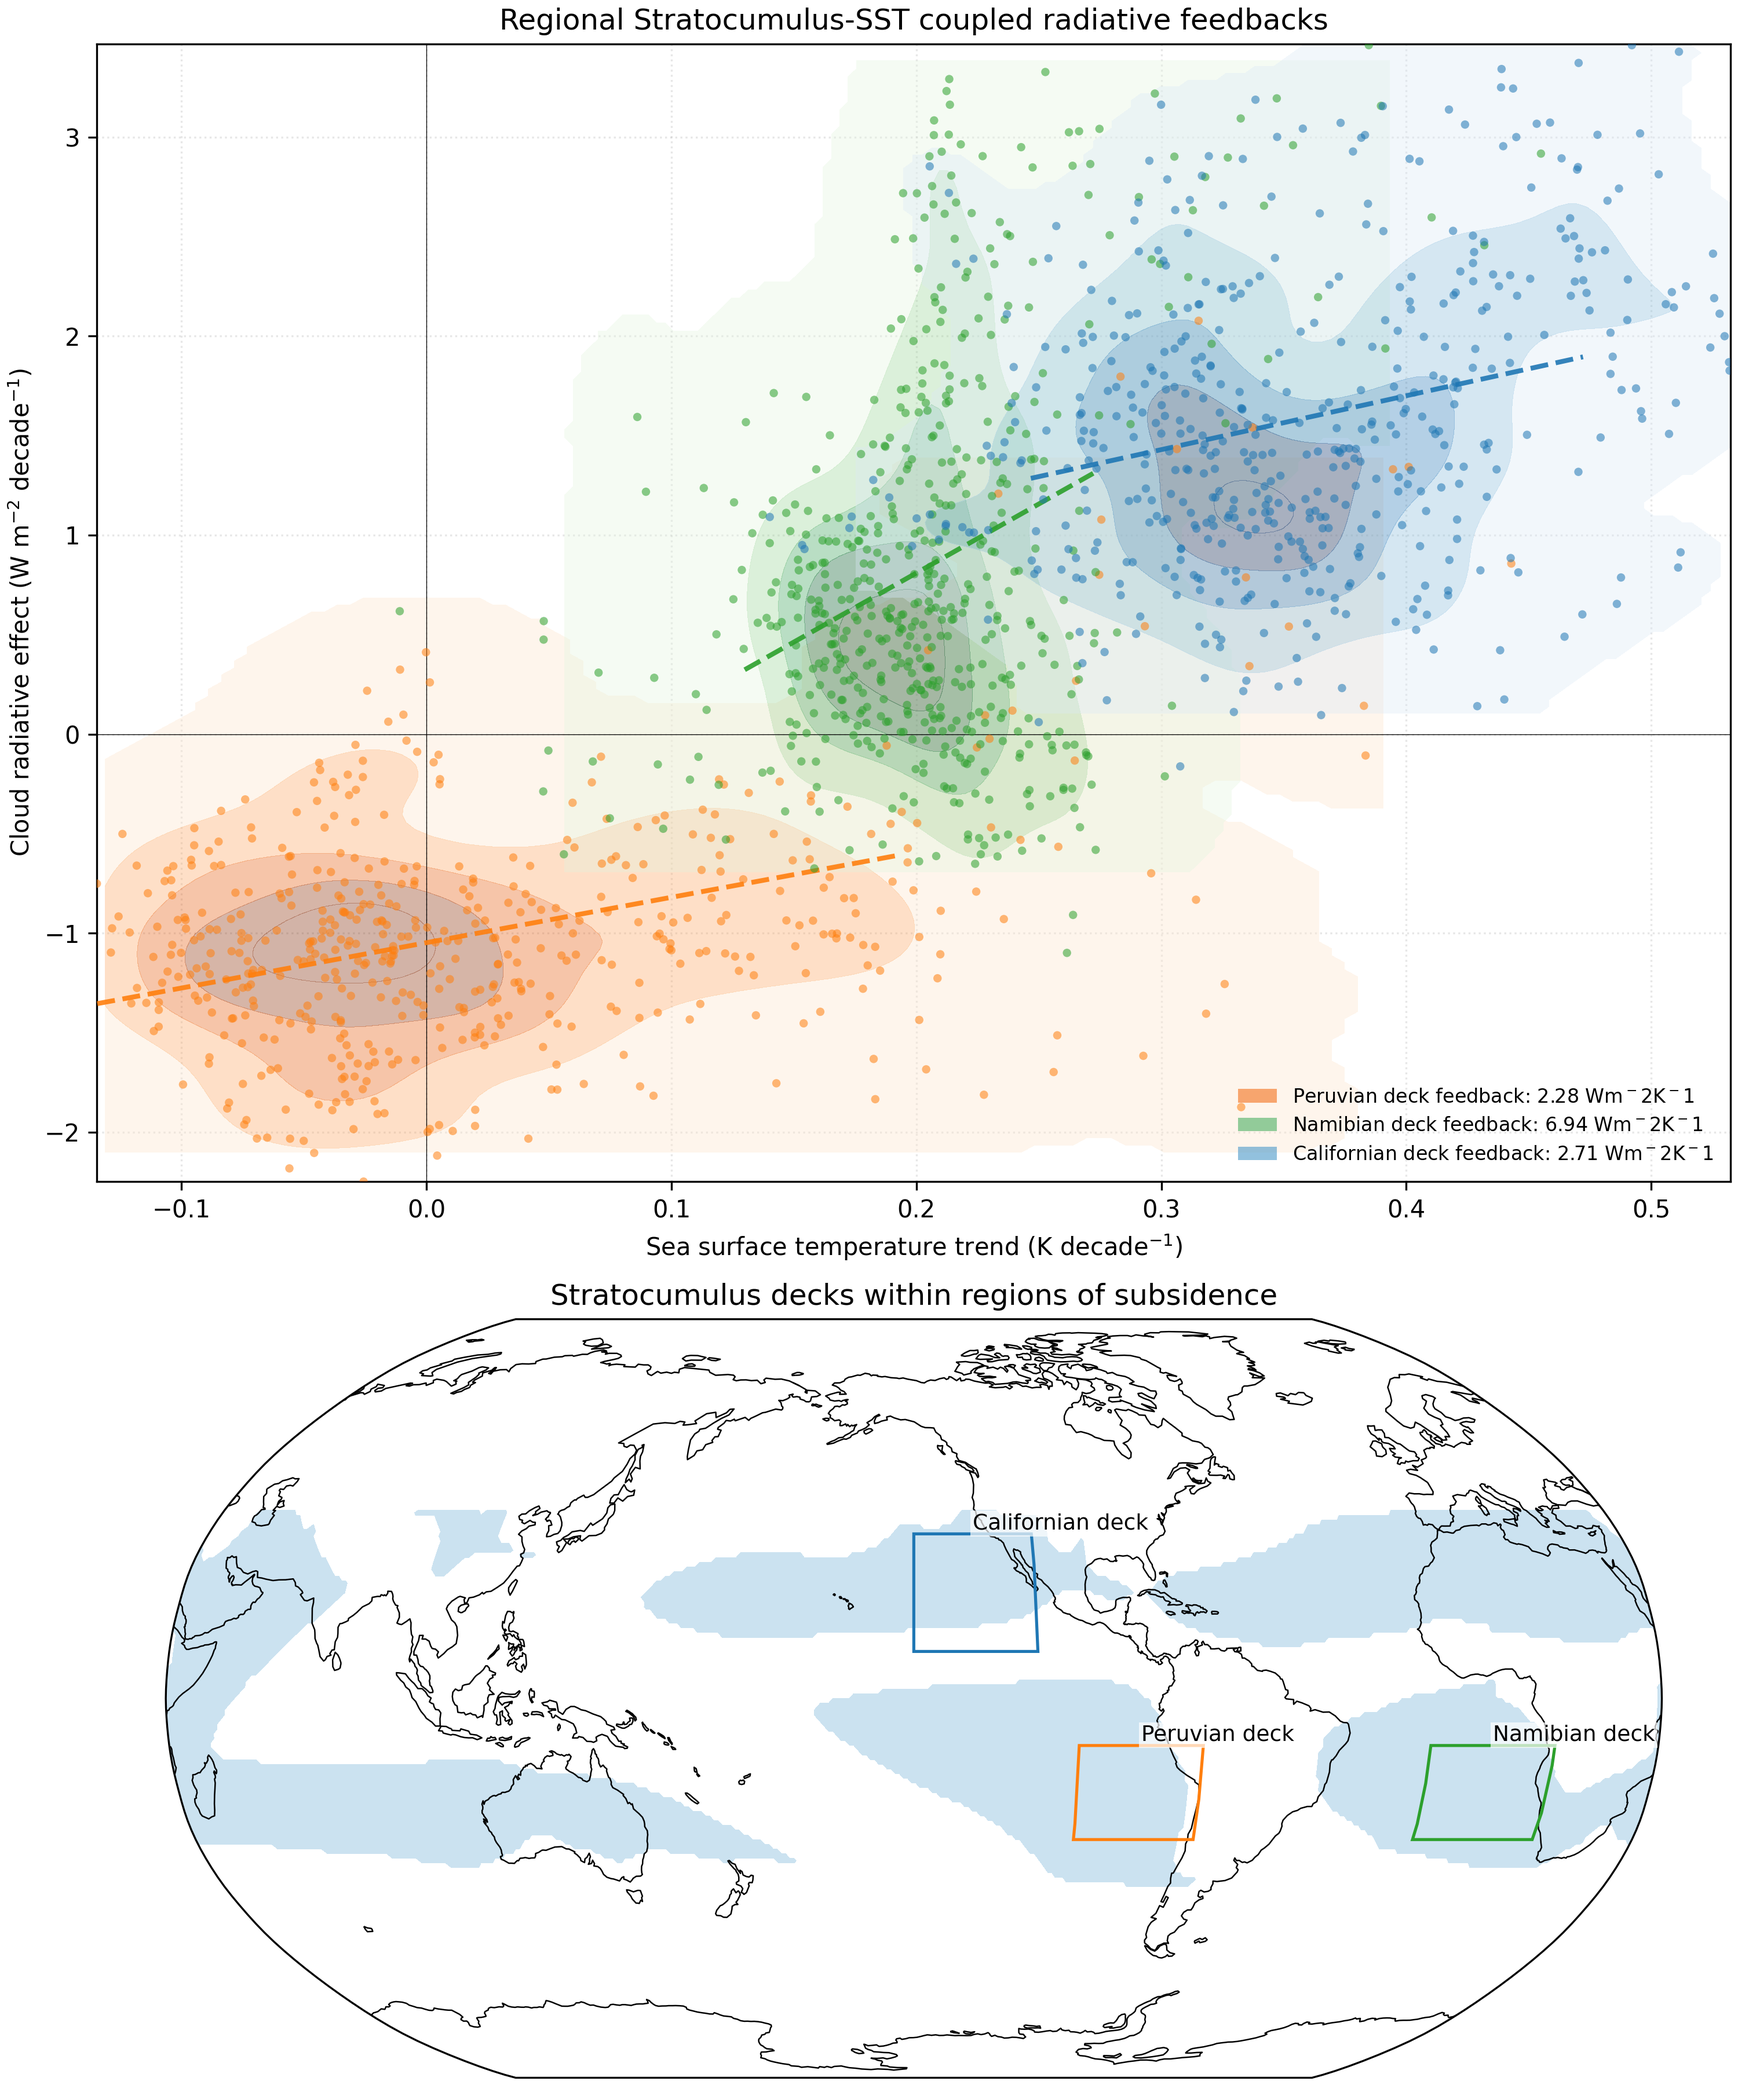
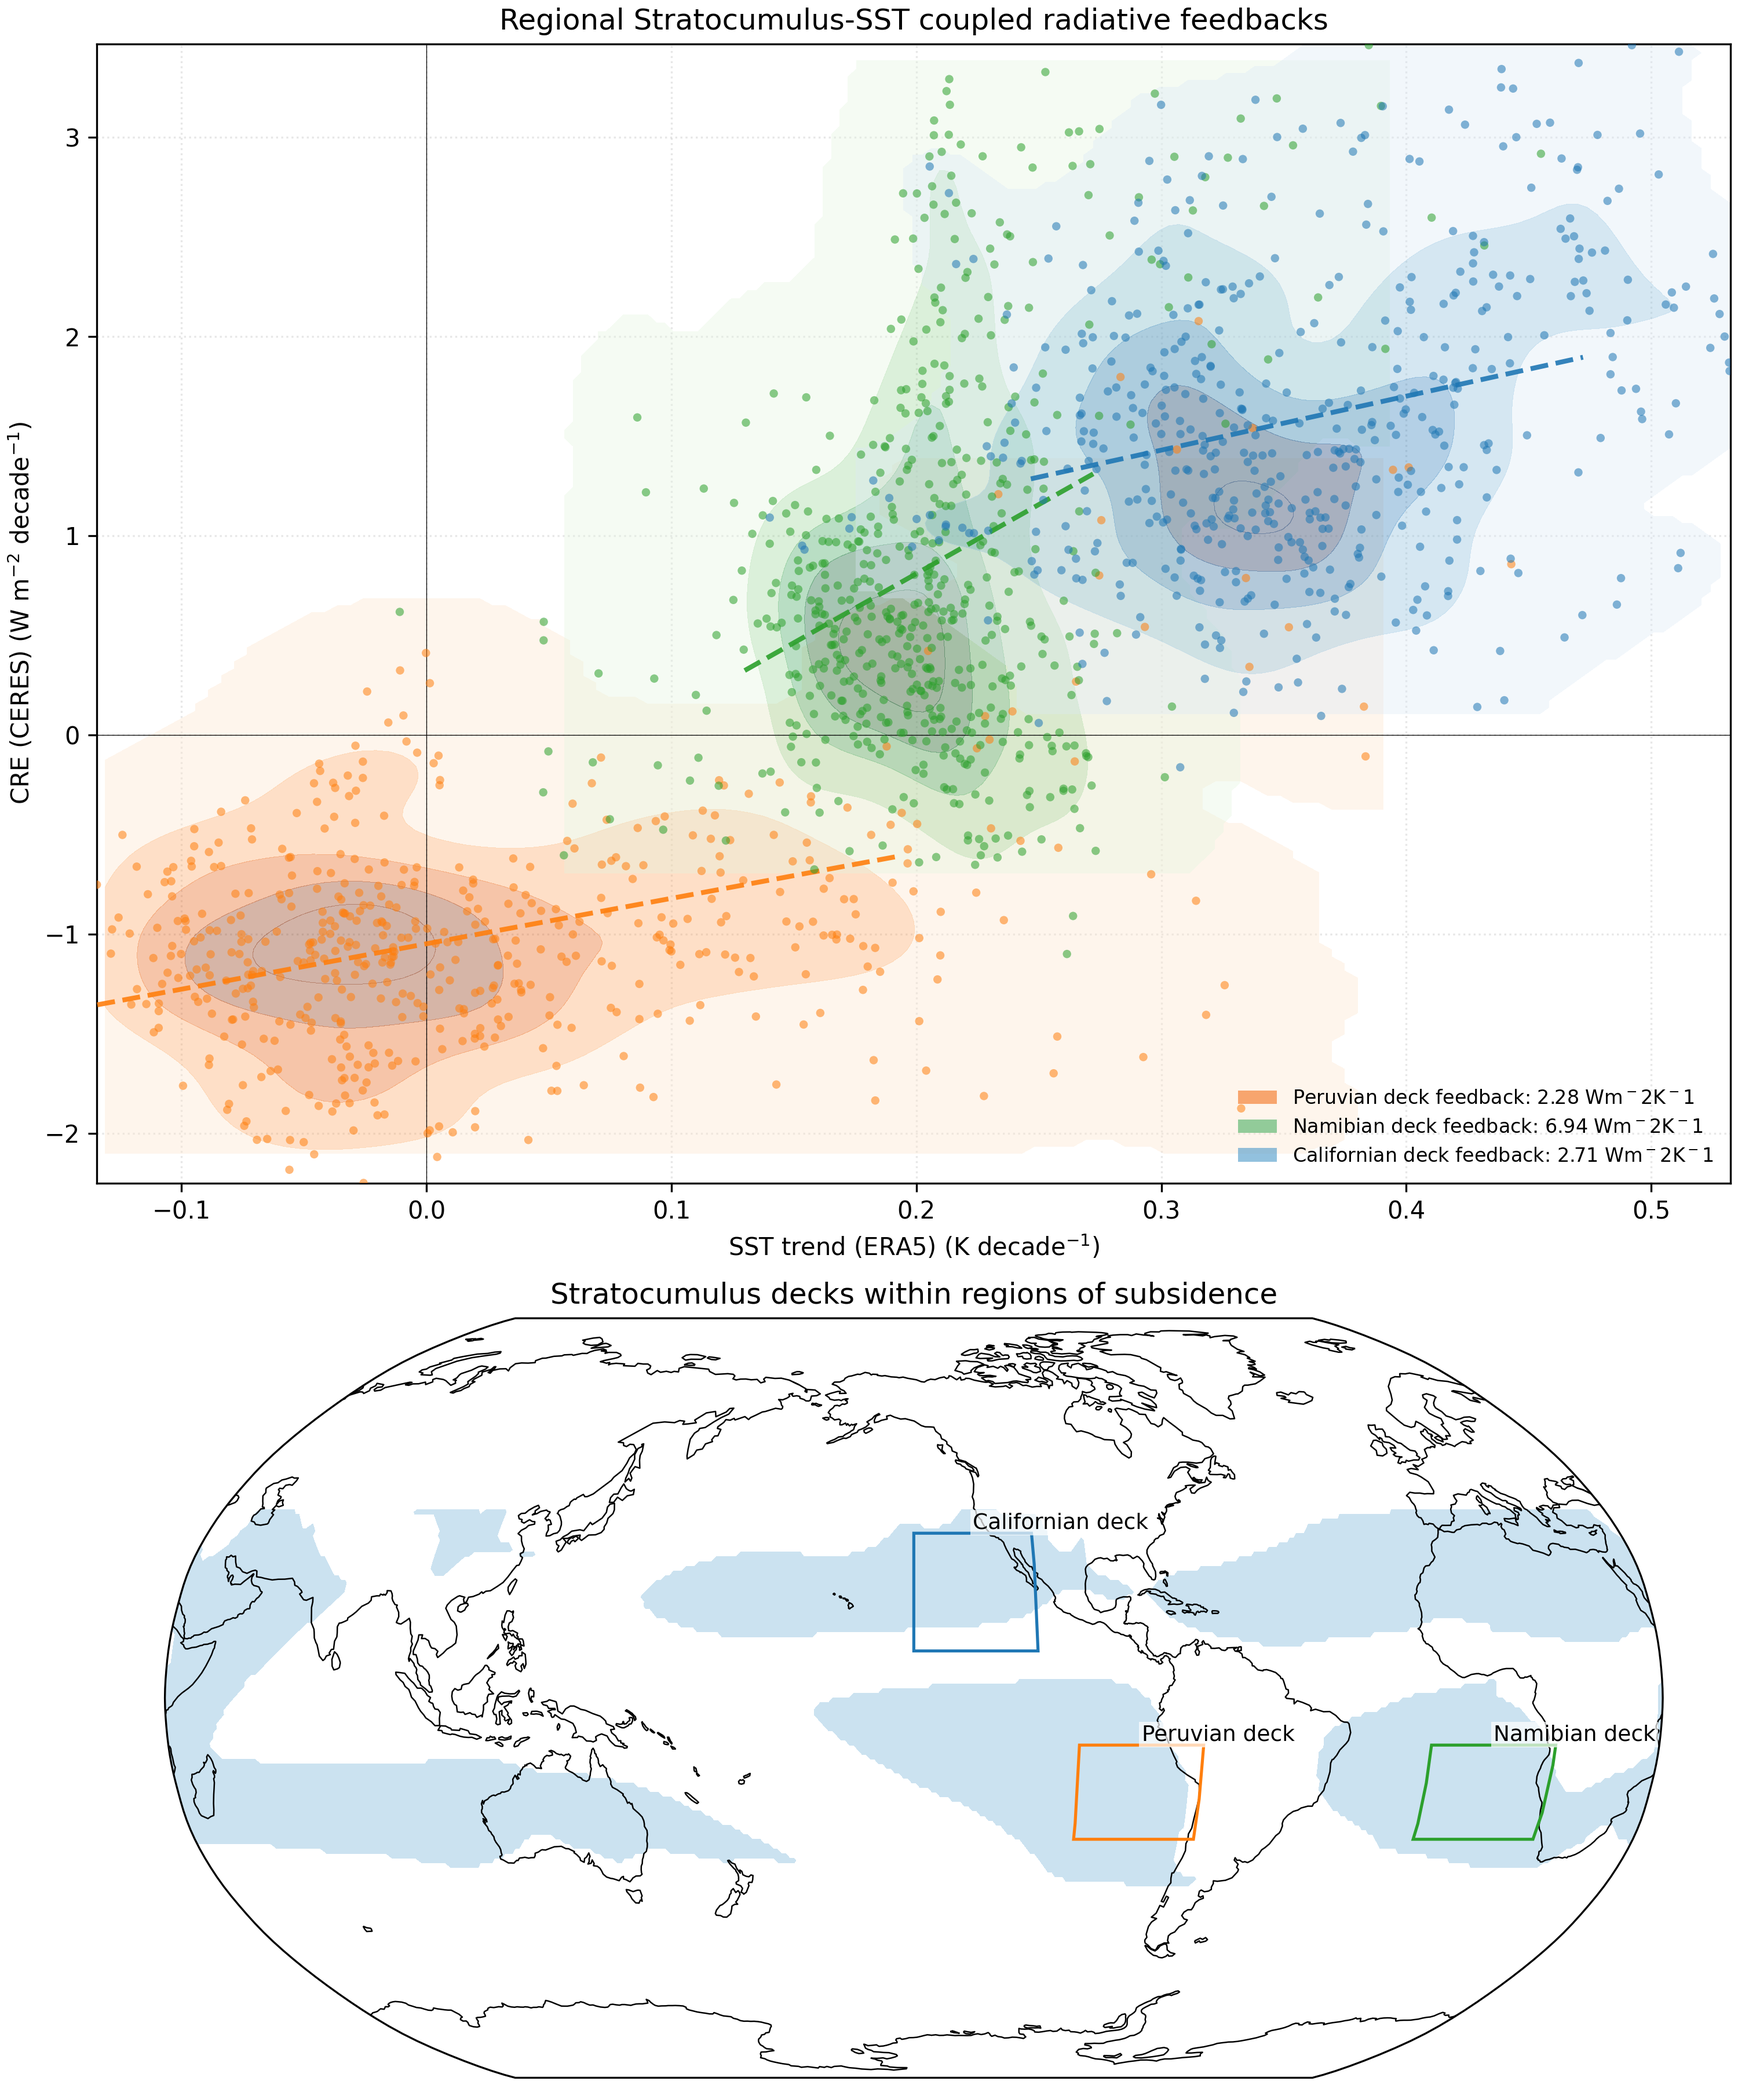
renm ax labels

diff --git a/cre_sst_trends.py b/cre_sst_trends.py
@@ -62,8 +62,8 @@ def main() -> None:
     all_plot_x: list[float] = []
     all_plot_y: list[float] = []
 
-    ax.set_xlabel("Sea surface temperature trend (K decade$^{-1}$)")
-    ax.set_ylabel("Cloud radiative effect (W m$^{-2}$ decade$^{-1}$)")
+    ax.set_xlabel("SST trend (ERA5) (K decade$^{-1}$)")
+    ax.set_ylabel("CRE (CERES) (W m$^{-2}$ decade$^{-1}$)")
     ax.set_title("Regional Stratocumulus-SST coupled radiative feedbacks")
 
     # prepare density colormap cycle and legend proxies
